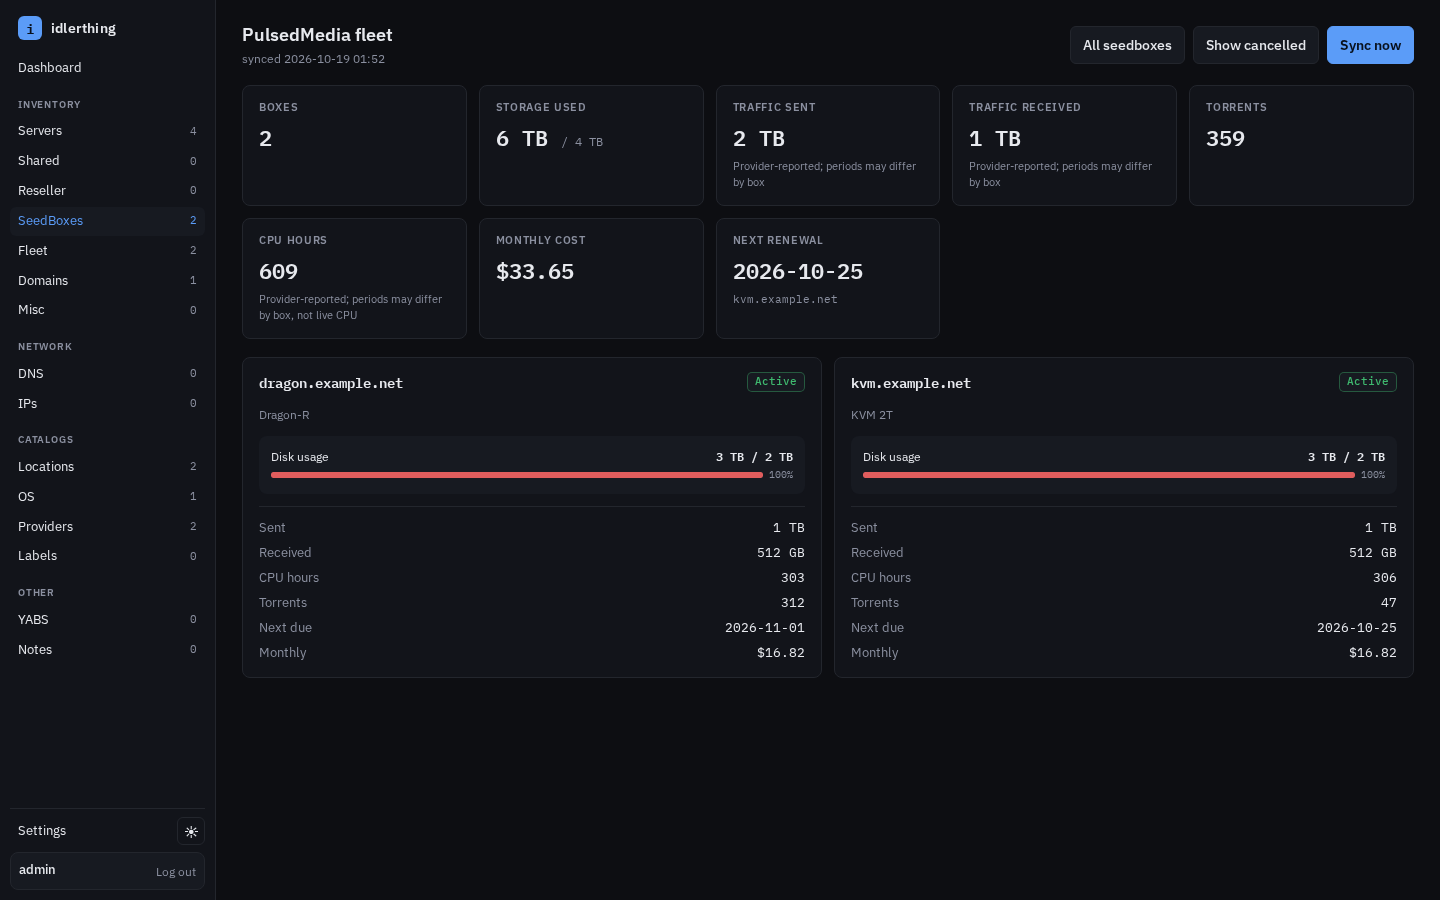
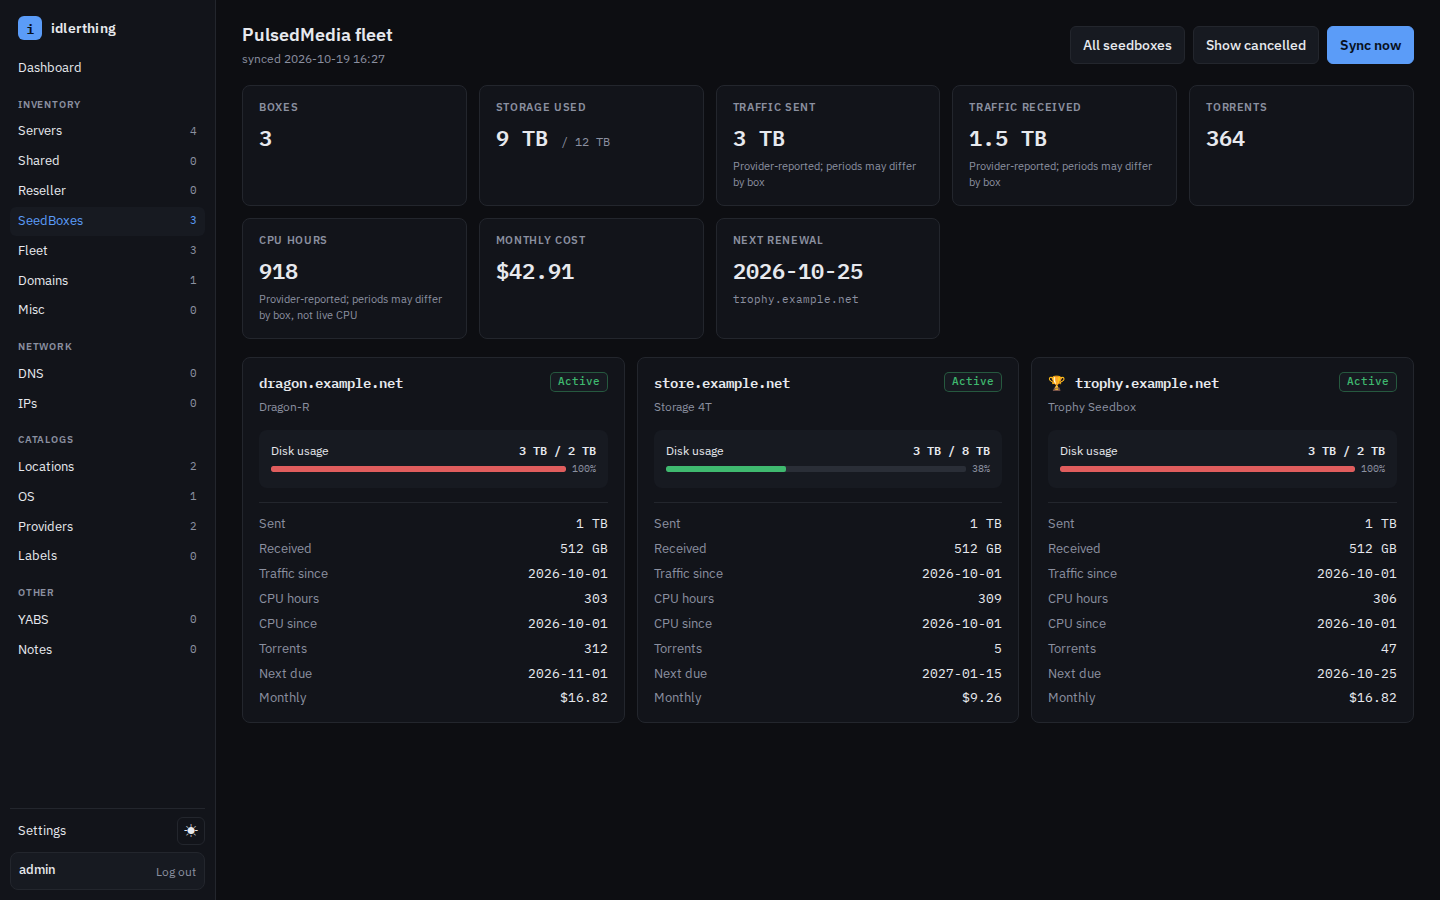
Refresh synthetic Fleet and dashboard screenshots in README

diff --git a/scripts/screenshots/main.go b/scripts/screenshots/main.go
@@ -56,6 +56,13 @@ func main() {
 	defer os.RemoveAll(tmp)
 	// Debug hook: write the seed document and stop, so the fixture can be
 	// reviewed (or imported by hand) without launching a browser.
+	if dump := os.Getenv("DUMP_FEED"); dump != "" {
+		if err := os.WriteFile(dump, feedJSON(), 0o600); err != nil {
+			log.Fatal(err)
+		}
+		fmt.Println("wrote feed to", dump)
+		return
+	}
 	if dump := os.Getenv("DUMP_FIXTURE"); dump != "" {
 		doc, err := json.MarshalIndent(fixture(), "", "  ")
 		if err != nil {

diff --git a/README.md b/README.md
@@ -32,12 +32,12 @@ benchmarks. SQLite storage, no cgo, no external services required.
 
 These screenshots use invented data from the [screenshot harness](scripts/screenshots/README.md); no live account or host is shown.
 
-![PulsedMedia fleet view with storage, traffic, CPU and torrent usage](docs/screenshots/fleet.png)
+![PulsedMedia fleet view with synthetic trophy seedbox, storage, traffic, CPU and torrent usage](docs/screenshots/fleet.png)
+
+![Dashboard with synthetic inventory and fleet-cost breakdown](docs/screenshots/dashboard.png)
 
 <details>
 <summary>More screenshots</summary>
-
-![Dashboard with sample inventory](docs/screenshots/dashboard.png)
 
 ![Seedbox inventory with sample entries](docs/screenshots/seedboxes.png)
 
